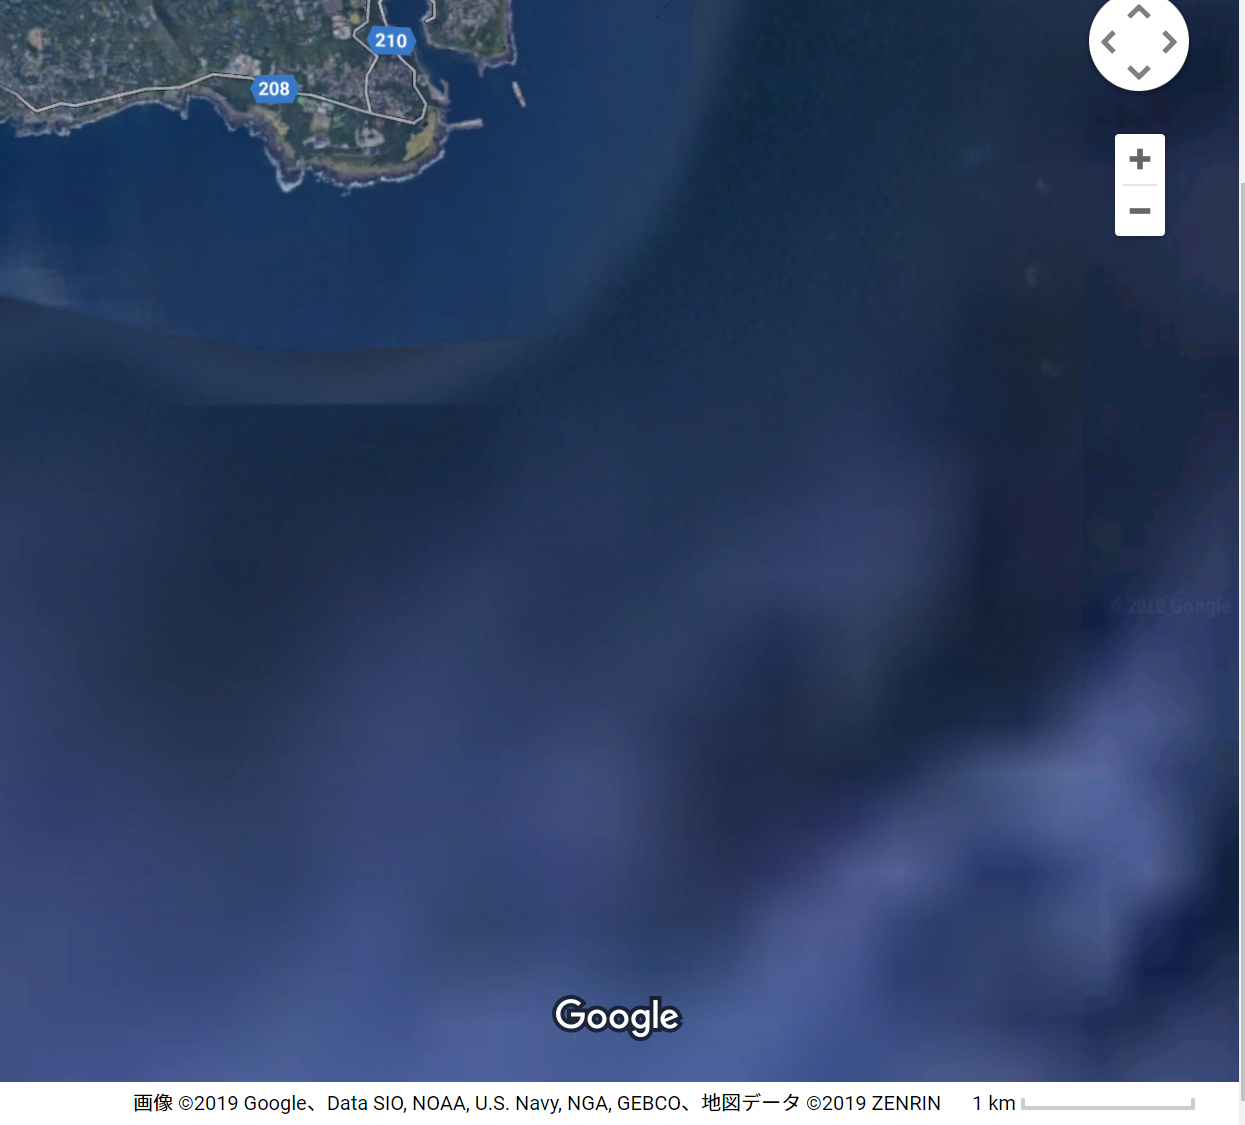
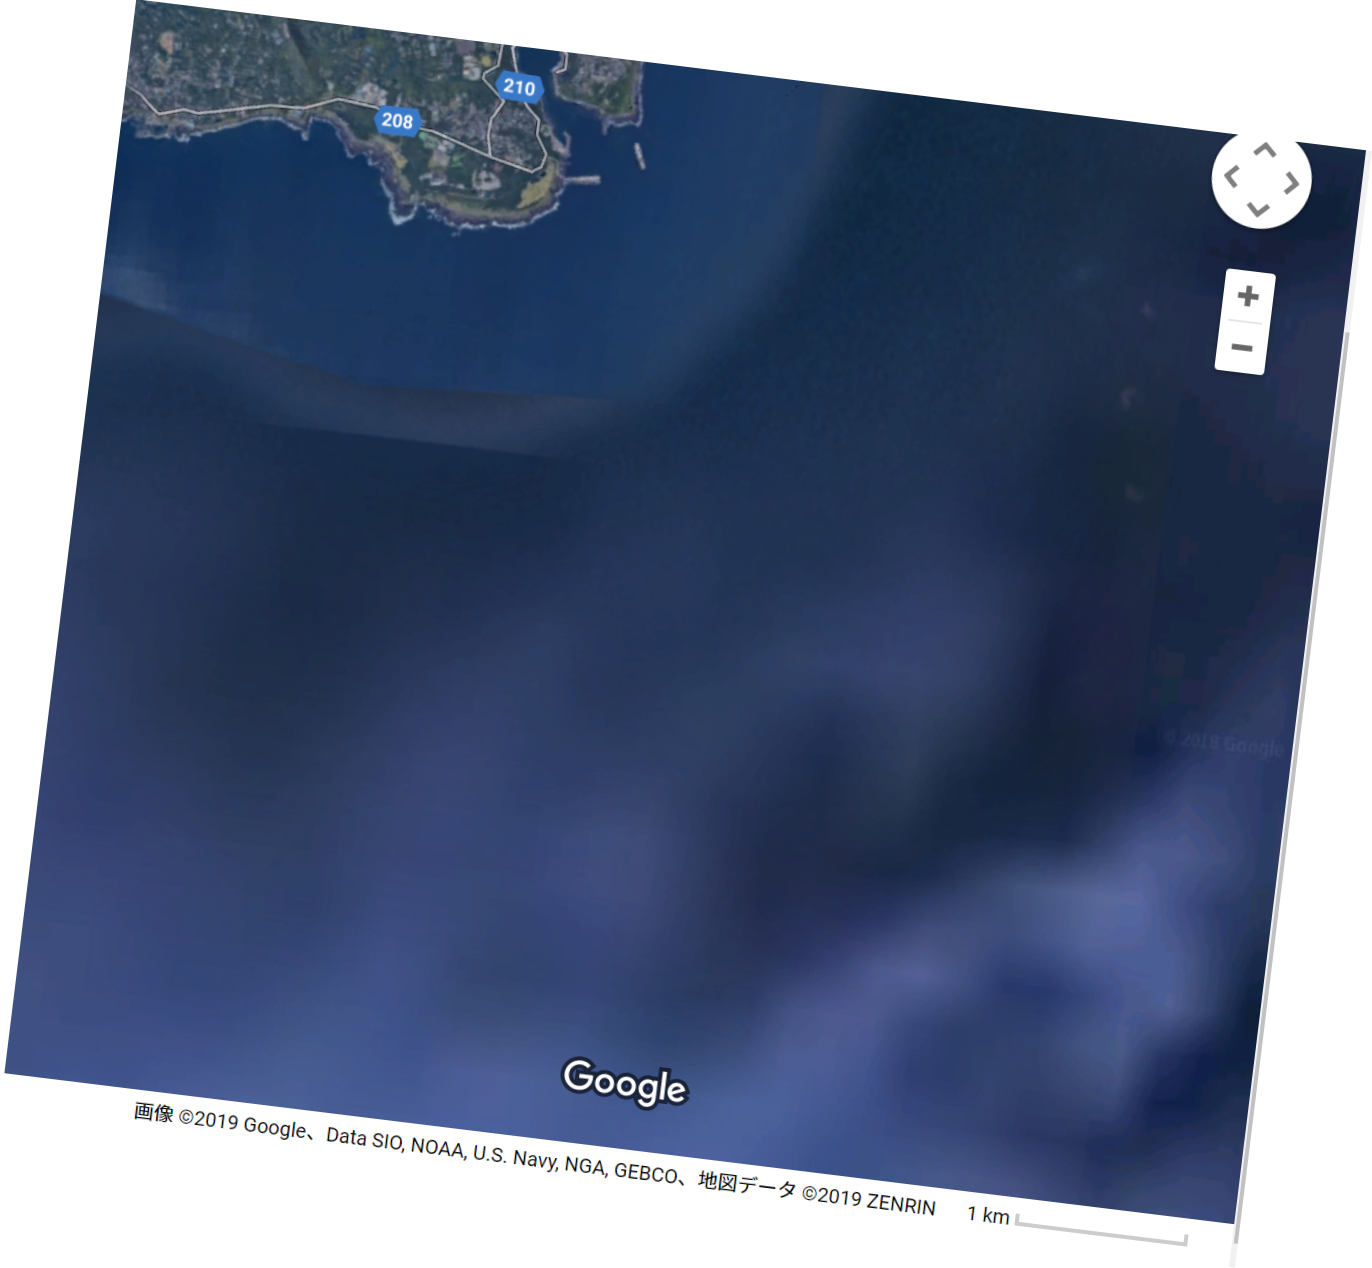
feat(Map): apply magnetic declination to images

Changed region(s): [[0.0, 0.0, 1.0, 0.9956], [0.5189, 0.2178, 0.5494, 0.2489]]

diff --git a/application/input/map/README.md b/application/input/map/README.md
@@ -1,0 +1,12 @@
+# マップ
+## 磁気偏角
+画像を回転させて磁気偏角を適用しています。
+
+回転方向：右回り
+
+単位：度
+
+- 能代陸: 8.9
+- 能代海: 8.94
+- 伊豆陸: 7.53
+- 伊豆海: 7.53
